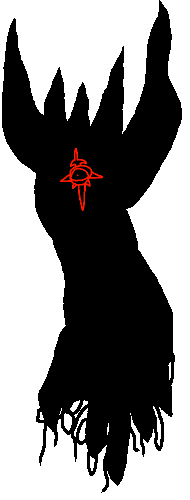
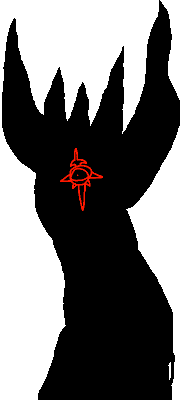
+ Fixed horizontal positioning of the Sealing ritual

diff --git a/Common/Systems/WorldEvents/SealingRitualSystem.cs b/Common/Systems/WorldEvents/SealingRitualSystem.cs
@@ -67,7 +67,7 @@ public class SealingRitualSystem : ModSystem
     }
     public override void OnWorldLoad()
     {
-        DungeonCoords = new Vector2(Main.dungeonX - 4, Main.dungeonY).ToWorldCoordinates();
+        DungeonCoords = new Vector2(Main.dungeonX + Main.dungeonX > Main.spawnTileX ? 4 : -4, Main.dungeonY).ToWorldCoordinates();
     }
     public override void OnWorldUnload()
     {
@@ -81,16 +81,13 @@ public class SealingRitualSystem : ModSystem
         /*
         QuestSystem.Quests["SealingRitual"].ResetQuest();
         QuestSystem.Quests["SealingRitual"].Active = true;
-        State = SystemState.CheckReqs;  
-        RitualSequenceSeen = false;
+        Recruits = [1, 2, 3, 4];
+        QuestSystem.Quests["Recruitment"].Progress = 4;
+        State = SystemState.CheckReqs; RitualTimer = -2; RitualSequenceSeen = false; Active = false;
         */
-
-        //Recruits = [1, 2, 3, 4];
         //Recruits = [];
-        //QuestSystem.Quests["Recruitment"].Progress = 4;
-        //State = SystemState.CheckReqs; RitualTimer = -2; RitualSequenceSeen = false; Active = false;
         //Main.NewText($"{RitualTimer}, {State}, {(DungeonCoords - Main.LocalPlayer.Center).Length()}, {RitualSequenceSeen}");
-        //TravellingCultist.RitualQuestProgress = 4;
+        Dust.NewDustPerfect(new Point(Main.dungeonX, Main.dungeonY).ToWorldCoordinates(), DustID.Terra, Vector2.Zero);
         #endregion
 
         if (RitualSequenceSeen)
